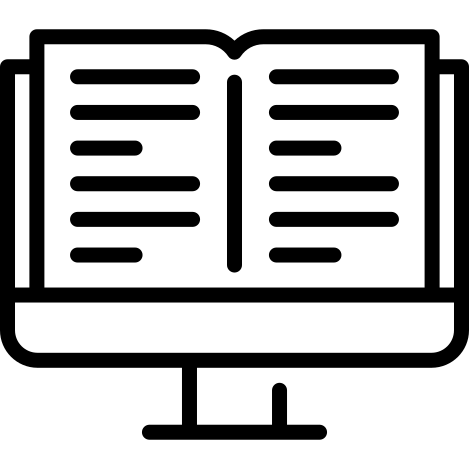
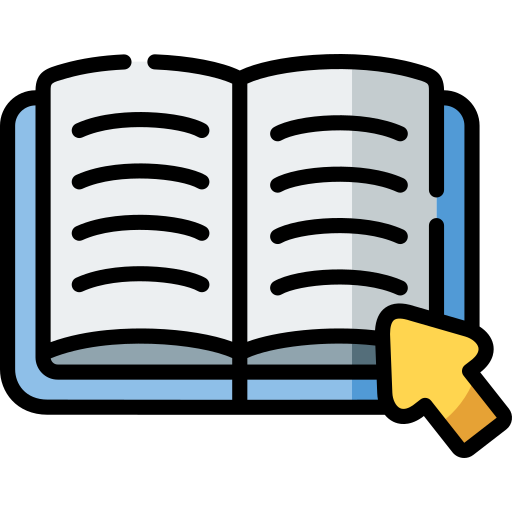
style(creator): mudança no png de livros

diff --git a/src/pages/soils/library/index.tsx b/src/pages/soils/library/index.tsx
@@ -2,6 +2,7 @@ import { Library } from '@/interfaces/common';
 import { FilterOption } from '@/components/molecules/buttons/filter';
 import { LibraryTemplate } from '@/components/templates/library';
 import { NextPage } from 'next';
+import { Article } from '@/assets';
 
 const SoilLibrary: NextPage = () => {
   const soilData: Library[] = [
@@ -16,6 +17,13 @@ const SoilLibrary: NextPage = () => {
       link: 'https://www.youtube.com/embed/GBrfPCJByp4',
       type: 'videos',
       key: 'triaxialCompression',
+    },
+    {
+      title: 'Solos Lateríticos',
+      icon: Article,
+      link: 'https://lepufcg.com.br/wp-content/uploads/2025/02/Solos-Lateriticos-LIVRO.pdf',
+      type: 'books',
+      key: 'lateral-soils',
     },
   ];
 

diff --git a/src/pages/asphalt/library/index.tsx b/src/pages/asphalt/library/index.tsx
@@ -33,7 +33,7 @@ const AsphaltLibrary: NextPage = () => {
     {
       title: 'Manual de Pavimentação',
       icon: Article,
-      link: 'https://trello.com/1/cards/67be4c75d5df8e5e343edc30/attachments/67ca315da21f24752e527c17/download/Manual-Avaliacao-Manutencao-E-book-2-Ed.-2024.pdf',
+      link: 'https://lepufcg.com.br/wp-content/uploads/2025/02/Manual-Avaliacao-Manutencao-E-book-2-Ed.-2024.pdf',
       //link: 'https://smartdoser.fastengapp.com.br/static/media/bookKennedy.75503a01.pdf',
       type: 'books',
       key: 'asphalt-guide',

diff --git a/src/assets/index.tsx b/src/assets/index.tsx
@@ -95,6 +95,7 @@ import AbcpIcon from './concrete/dosages/abcp.svg';
 import AbcpLogo from './concrete/dosages/abcp-icon.png';
 
 // creators
+// Book/Article icon - Used in library pages (asphalt/library, soils/library) to display PDF book entries
 import Article from './creators/Article.png';
 // export all assets
 export {